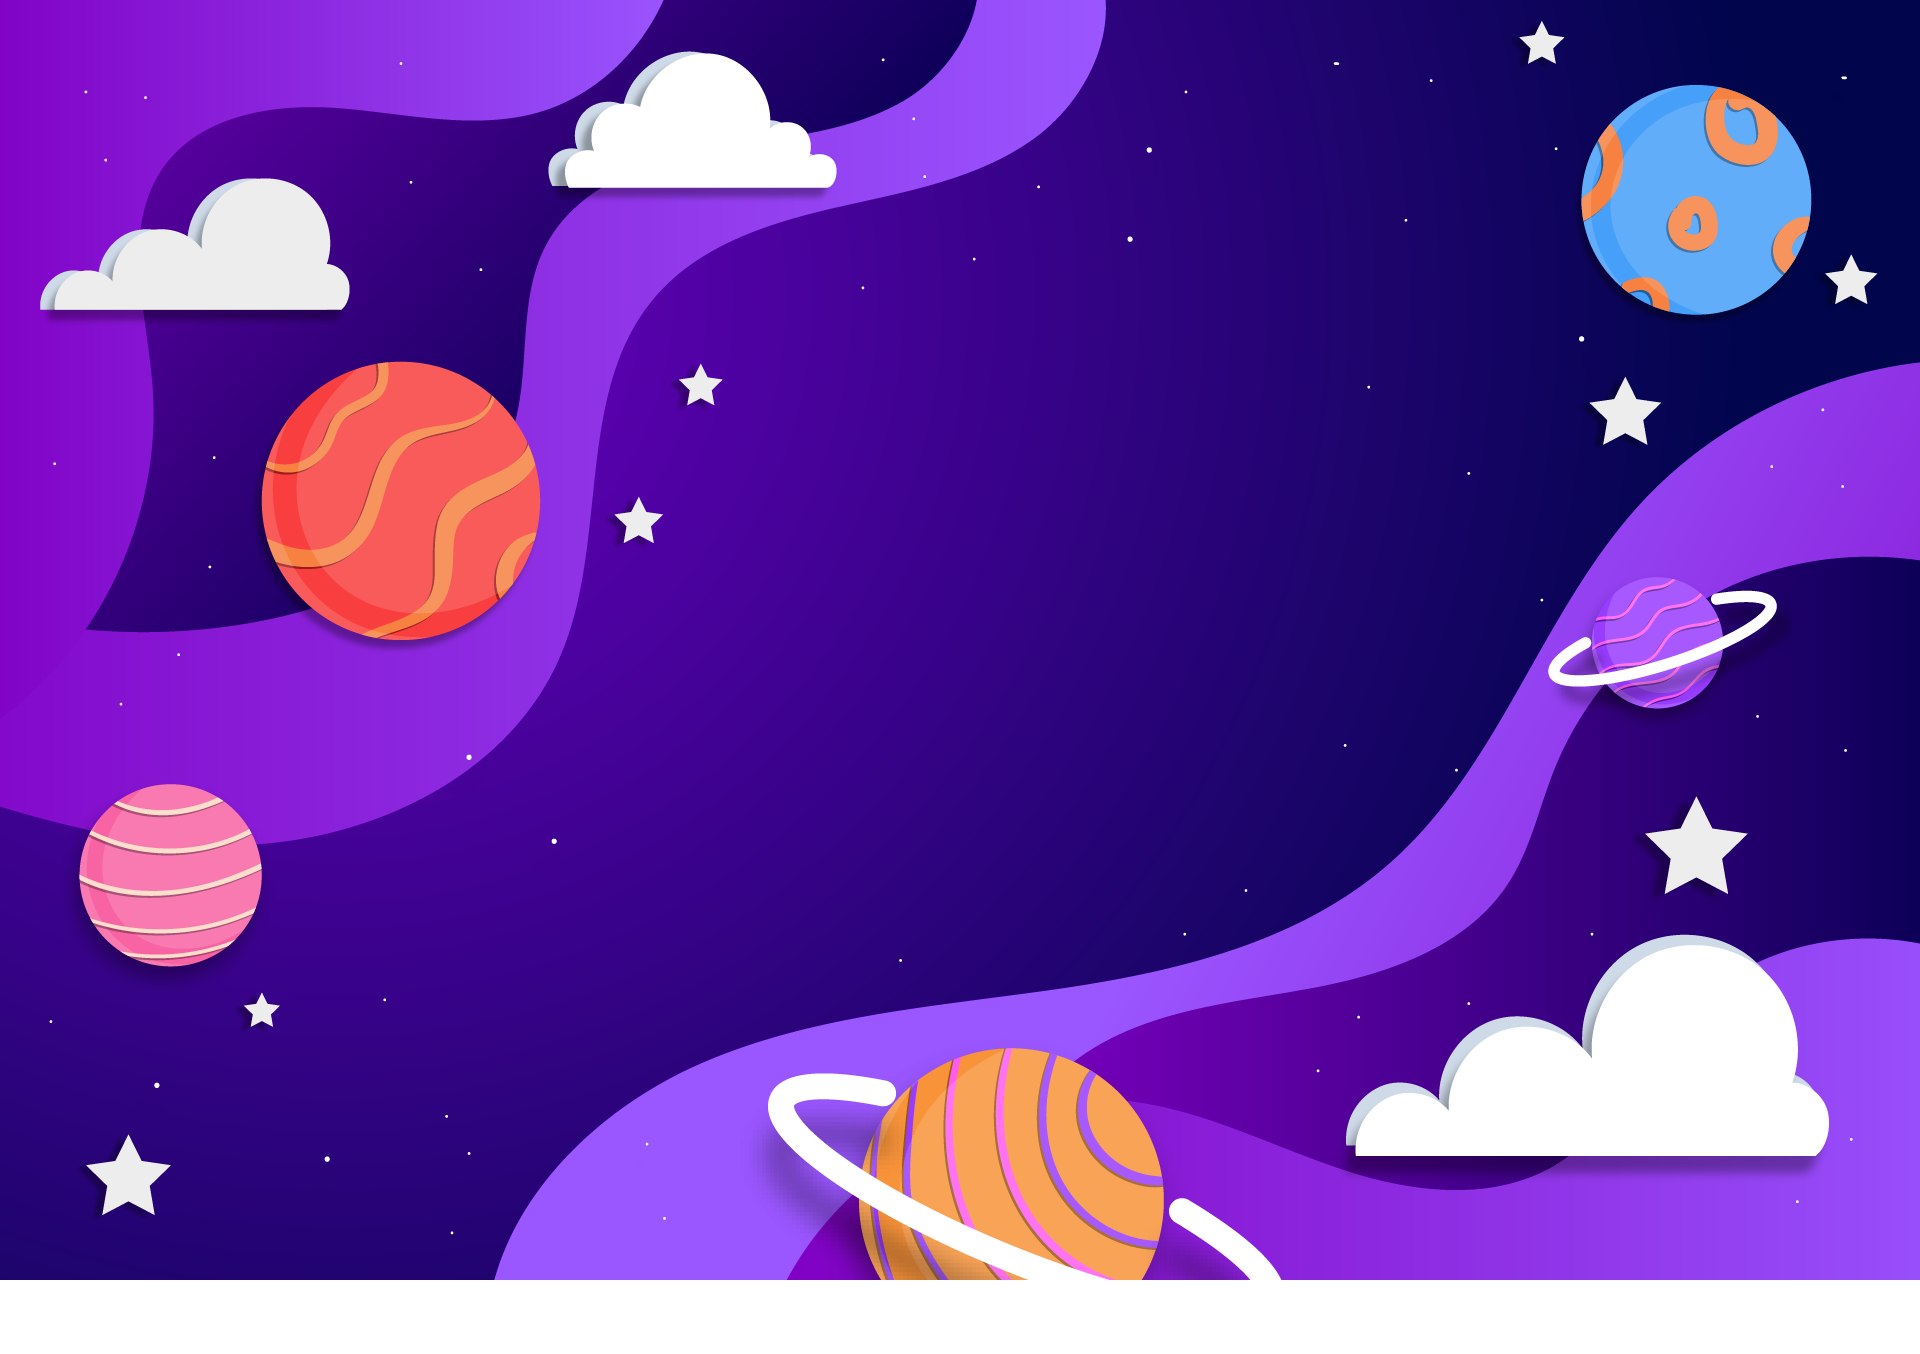
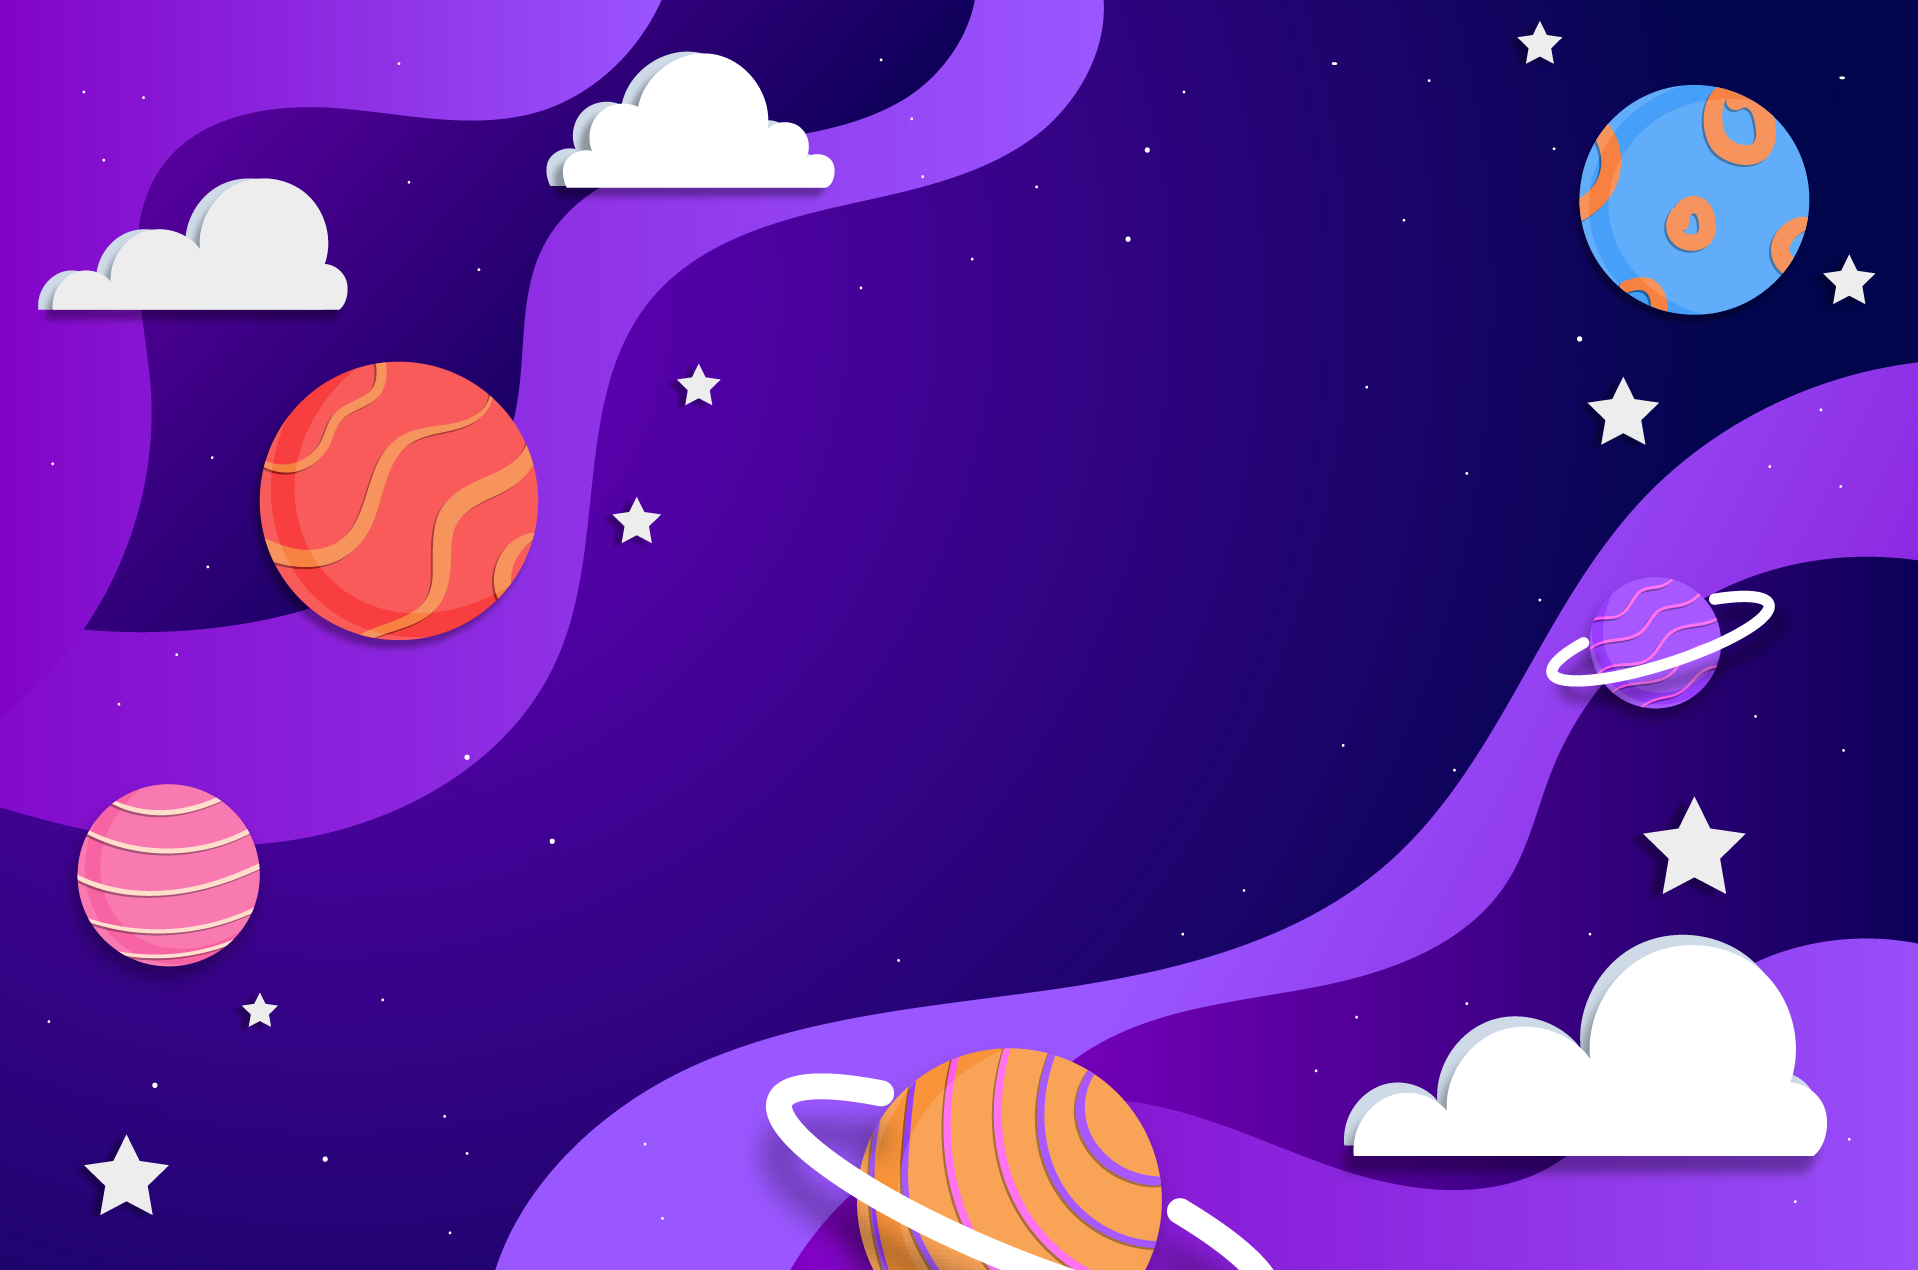
게임 스타트 효과 및 게임 시작 시 배경 화면 추가
게임 스타트 효과 및 게임 시작 시 배경 화면 추가

diff --git a/src/main/webapp/css/game.css b/src/main/webapp/css/game.css
@@ -1,8 +1,43 @@
 body {
-  background-image: url(../image/game/load_game_bg.png);
-  background-size: cover;
-  background-attachment: fixed;
-  display: flex;
-  justify-content: center;
-  align-items: center;
+	display: flex;
+	justify-content: center;
+	align-items: center;
+	margin: 0;
+	padding: 0;
+	height: 100vh;
+	background-image: url(../image/game/start_game.png);
+	background-size: cover;
+	background-attachment: fixed;
+}
+
+#background {
+	position: absolute;
+	width: 100%;
+	height: 100vh;
+	background-image: url(../image/game/load_game_bg.png);
+	background-size: cover;
+	background-attachment: fixed;
+	z-index: 1000;
+}
+
+#rocket {
+	position: absolute;
+	width: 600px;
+	height: auto;
+	top: 50%;
+	left: 50%;
+	transform: translate(-50%, -50%);
+	animation: moveRocket 2s linear infinite;
+}
+
+@keyframes moveRocket {
+	0% {
+		transform: translate(-50%, -50%) rotate(0deg);
+	}
+	50% {
+		transform: translate(-50%, -60%) rotate(10deg);
+	}
+	100% {
+		transform: translate(-50%, -50%) rotate(0deg);
+	}
 }
